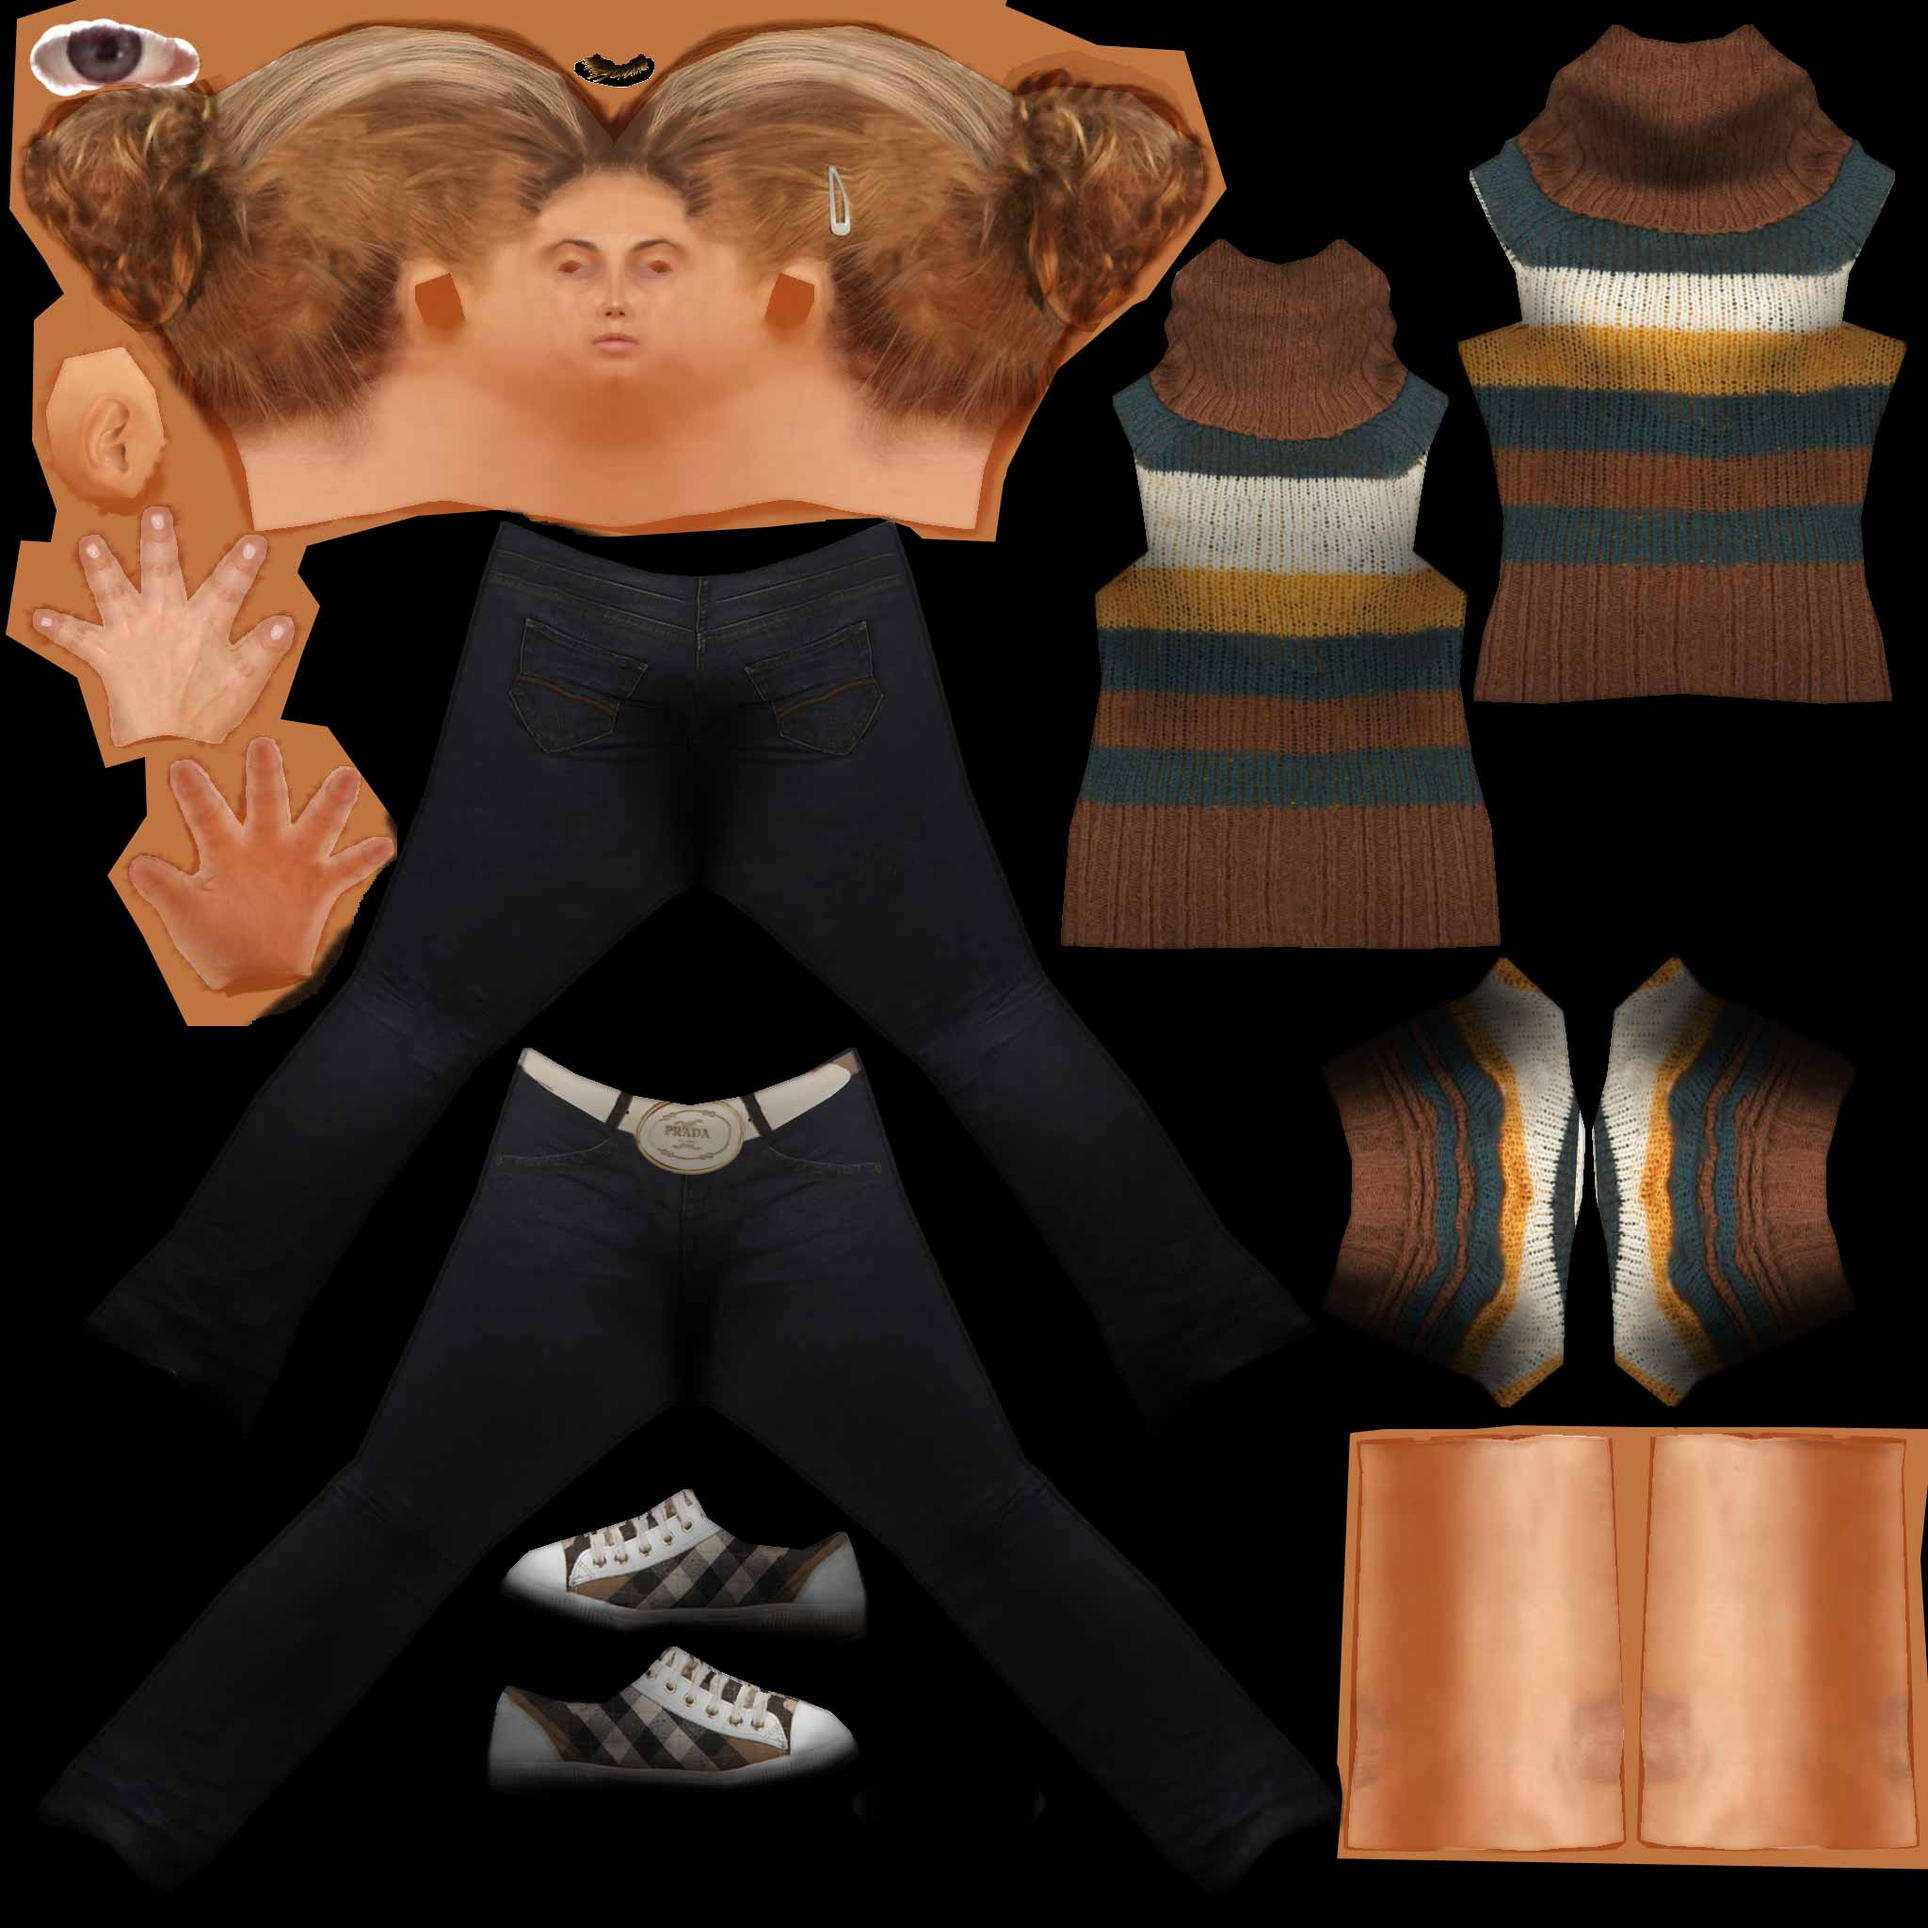
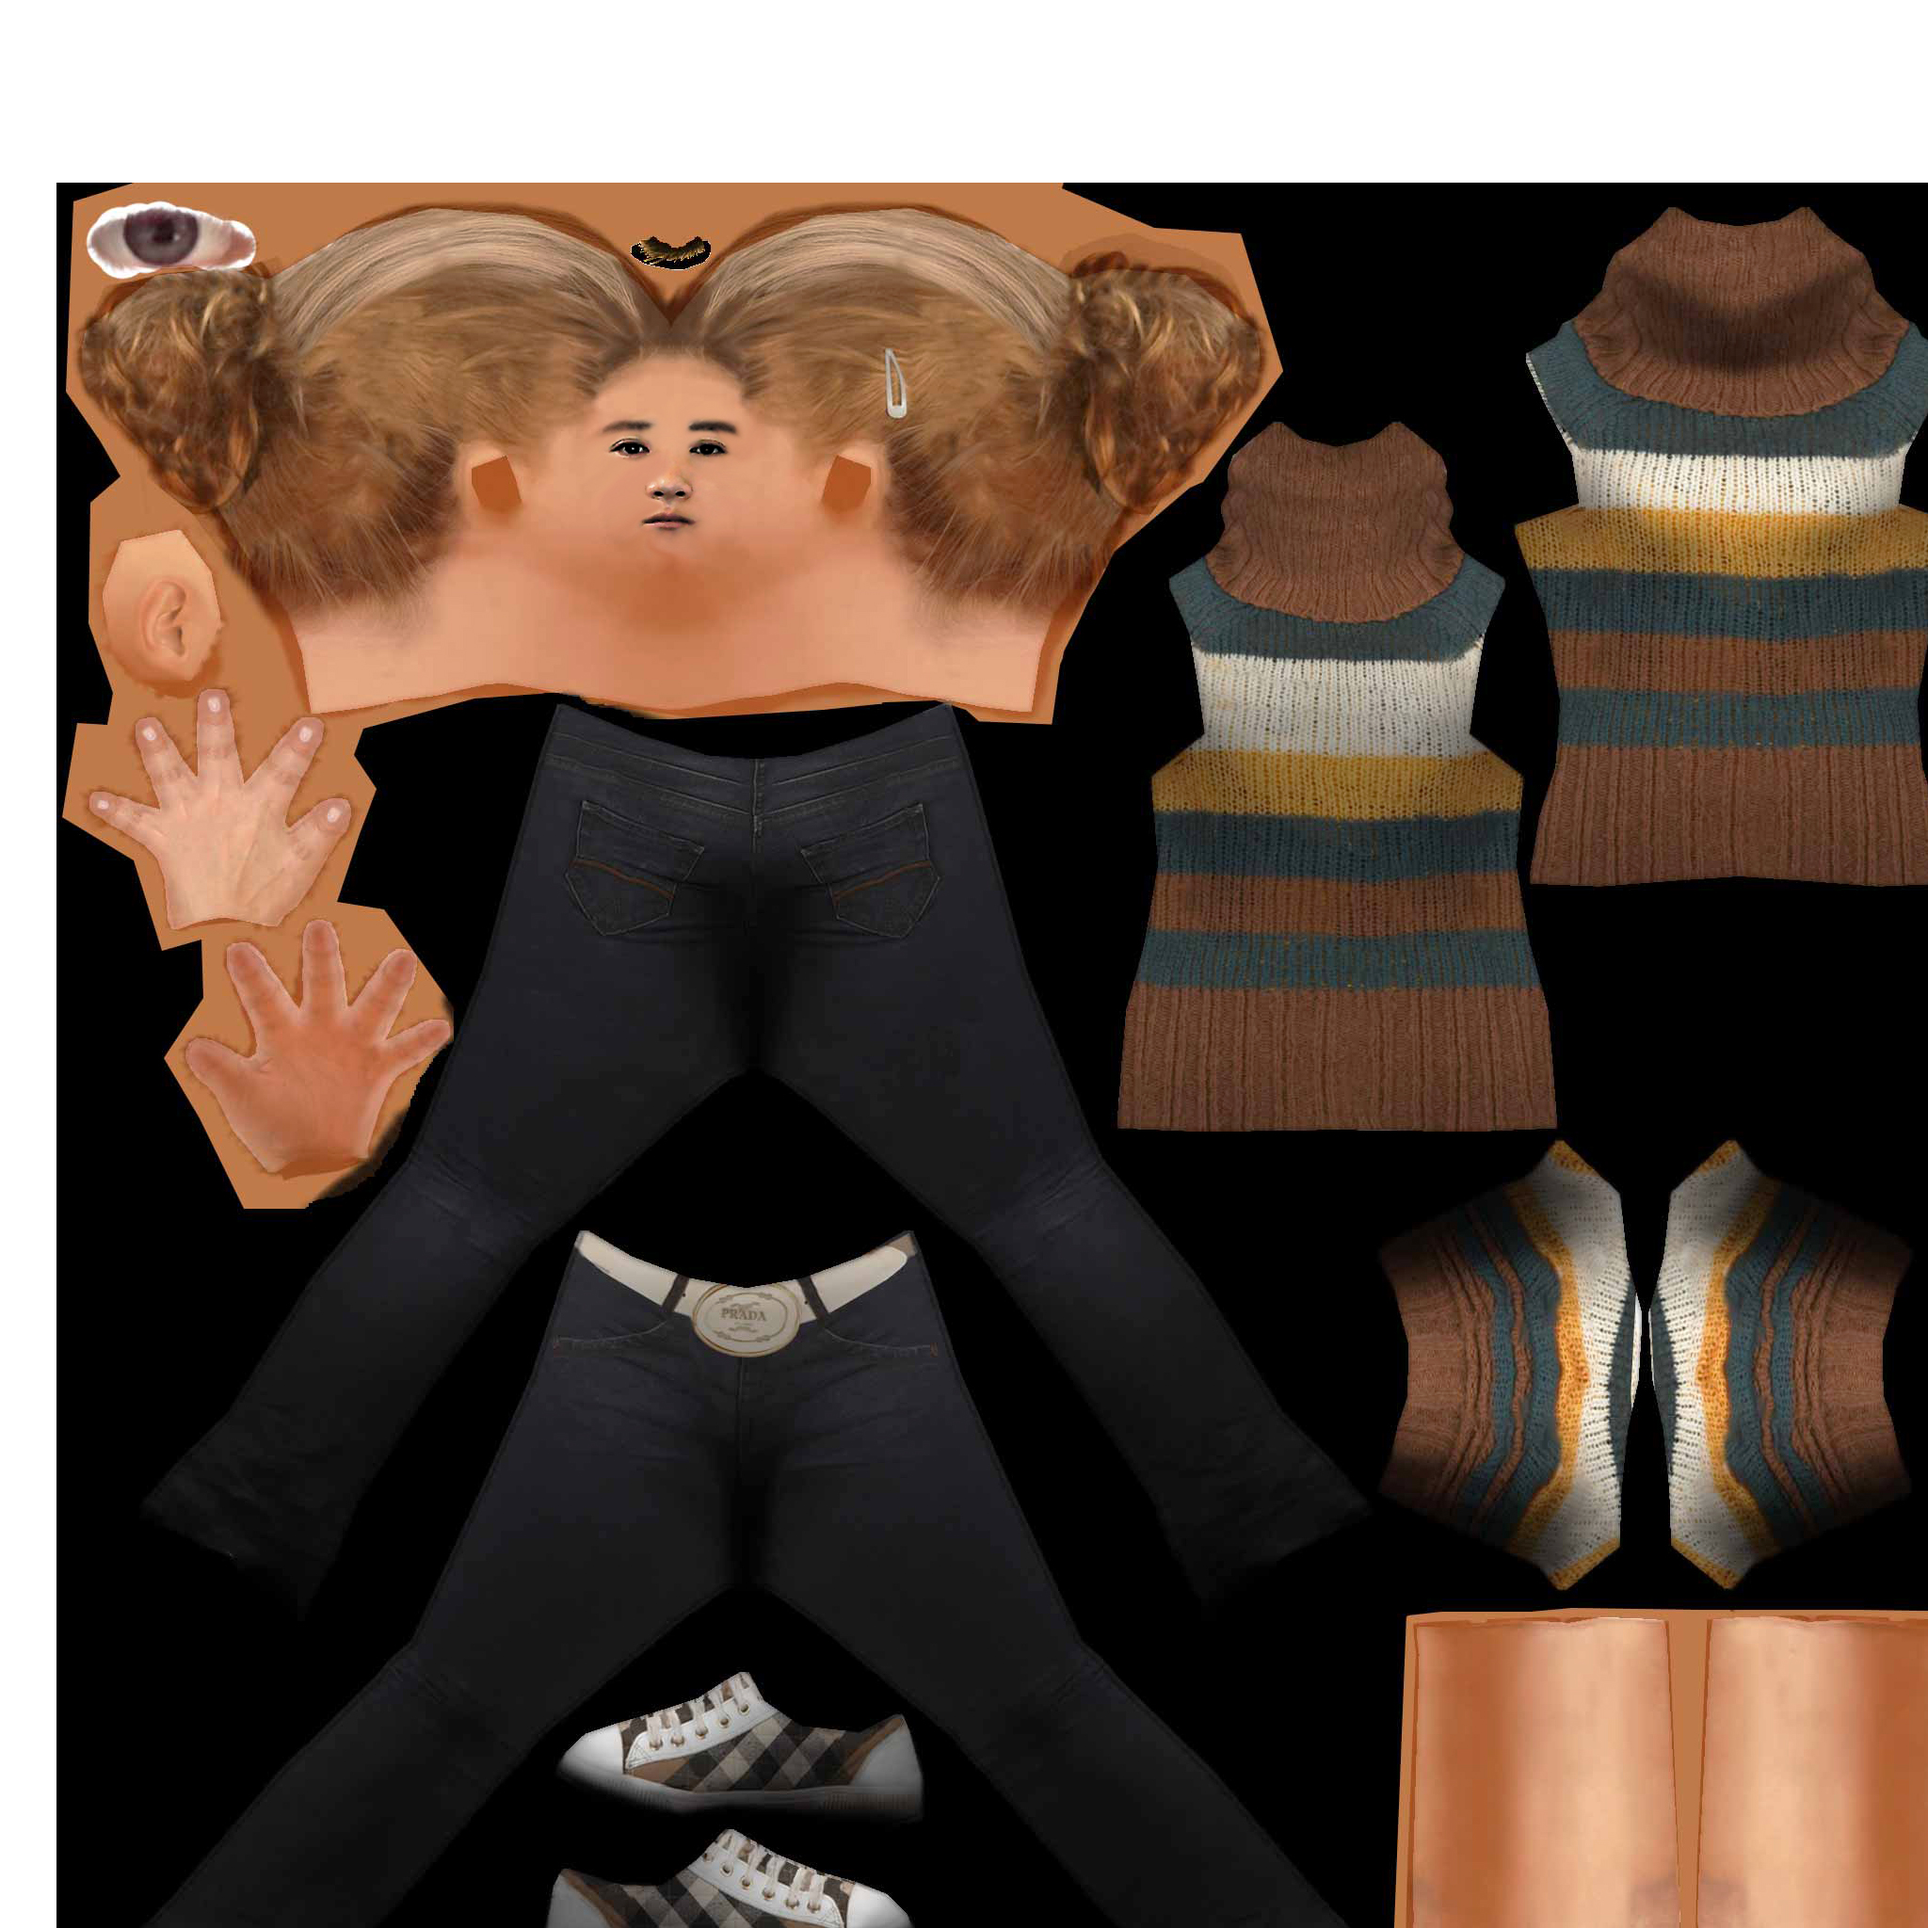
face changed

diff --git a/assets/js/threemodel.js b/assets/js/threemodel.js
@@ -45,7 +45,7 @@
             camera.position.x = 0;
             camera.position.y = -3;
             
-            let stacy_txt = new THREE.TextureLoader().load('./assets/images/stacy.jpg');
+            let stacy_txt = new THREE.TextureLoader().load('https://fantasticfullstackdev.github.io/jinwangdev/assets/images/stacy.jpg');
         
             stacy_txt.flipY = false; // we flip the texture so that its the right way up
         
